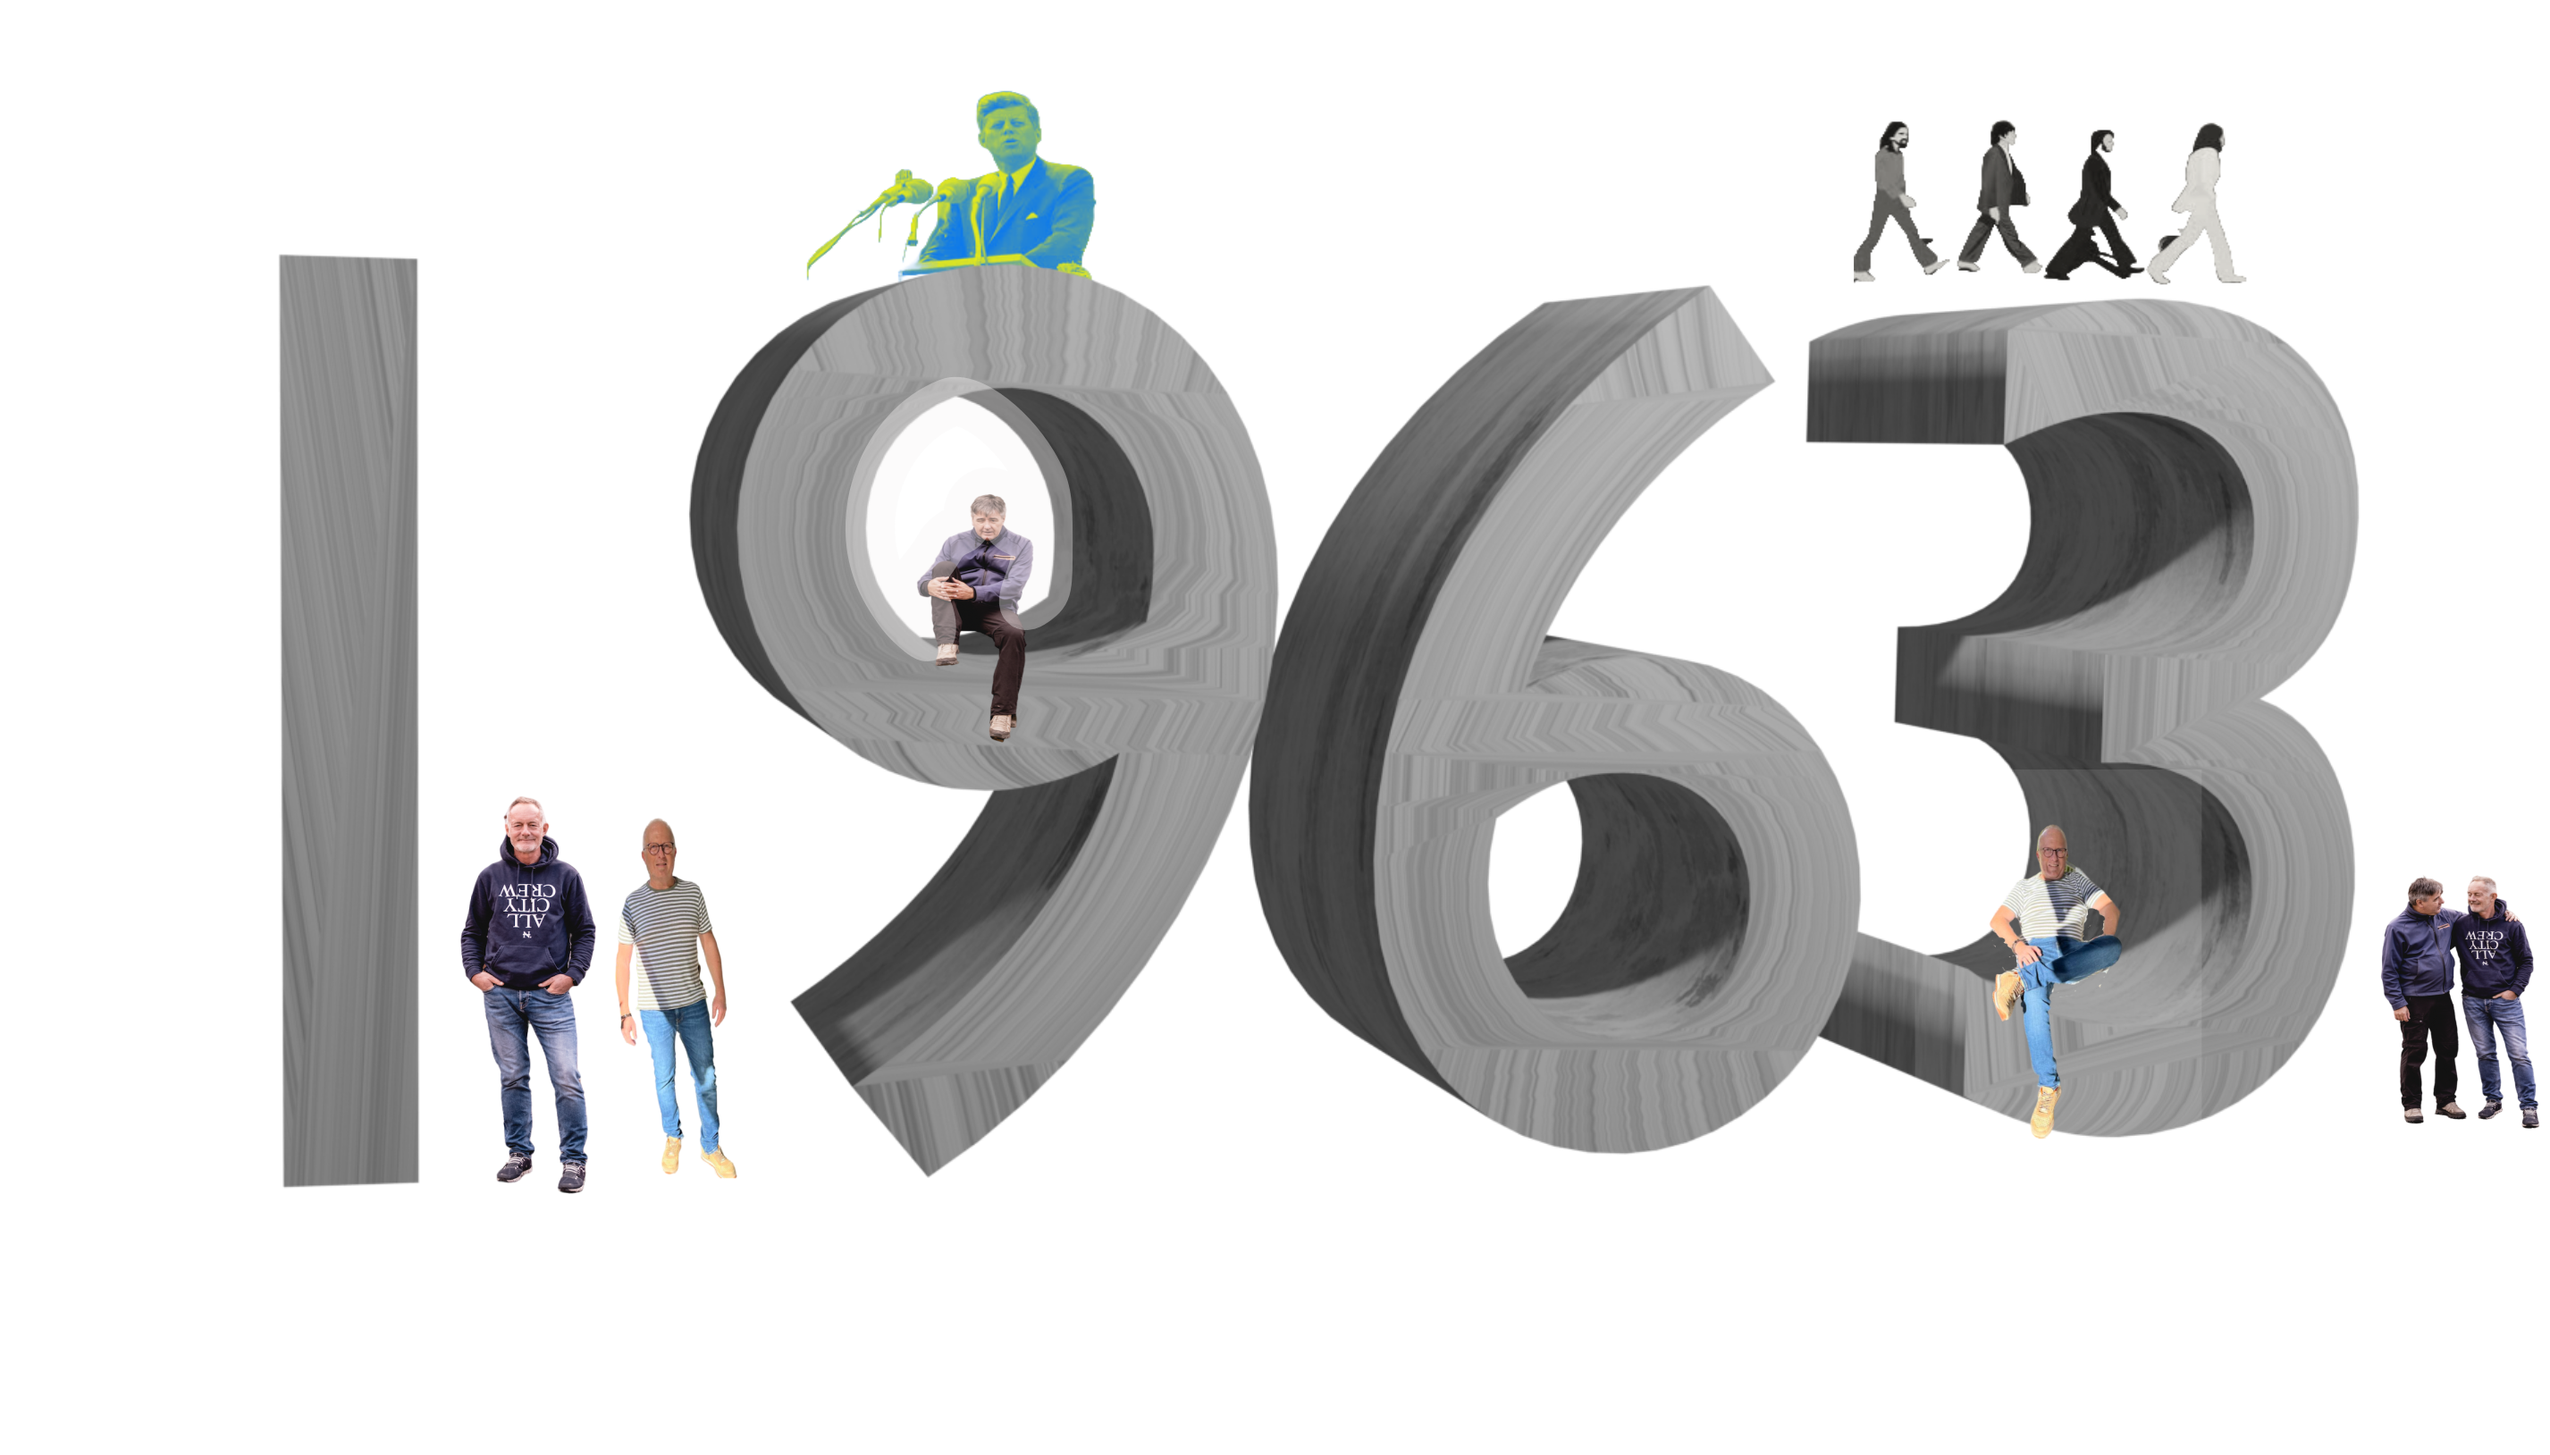
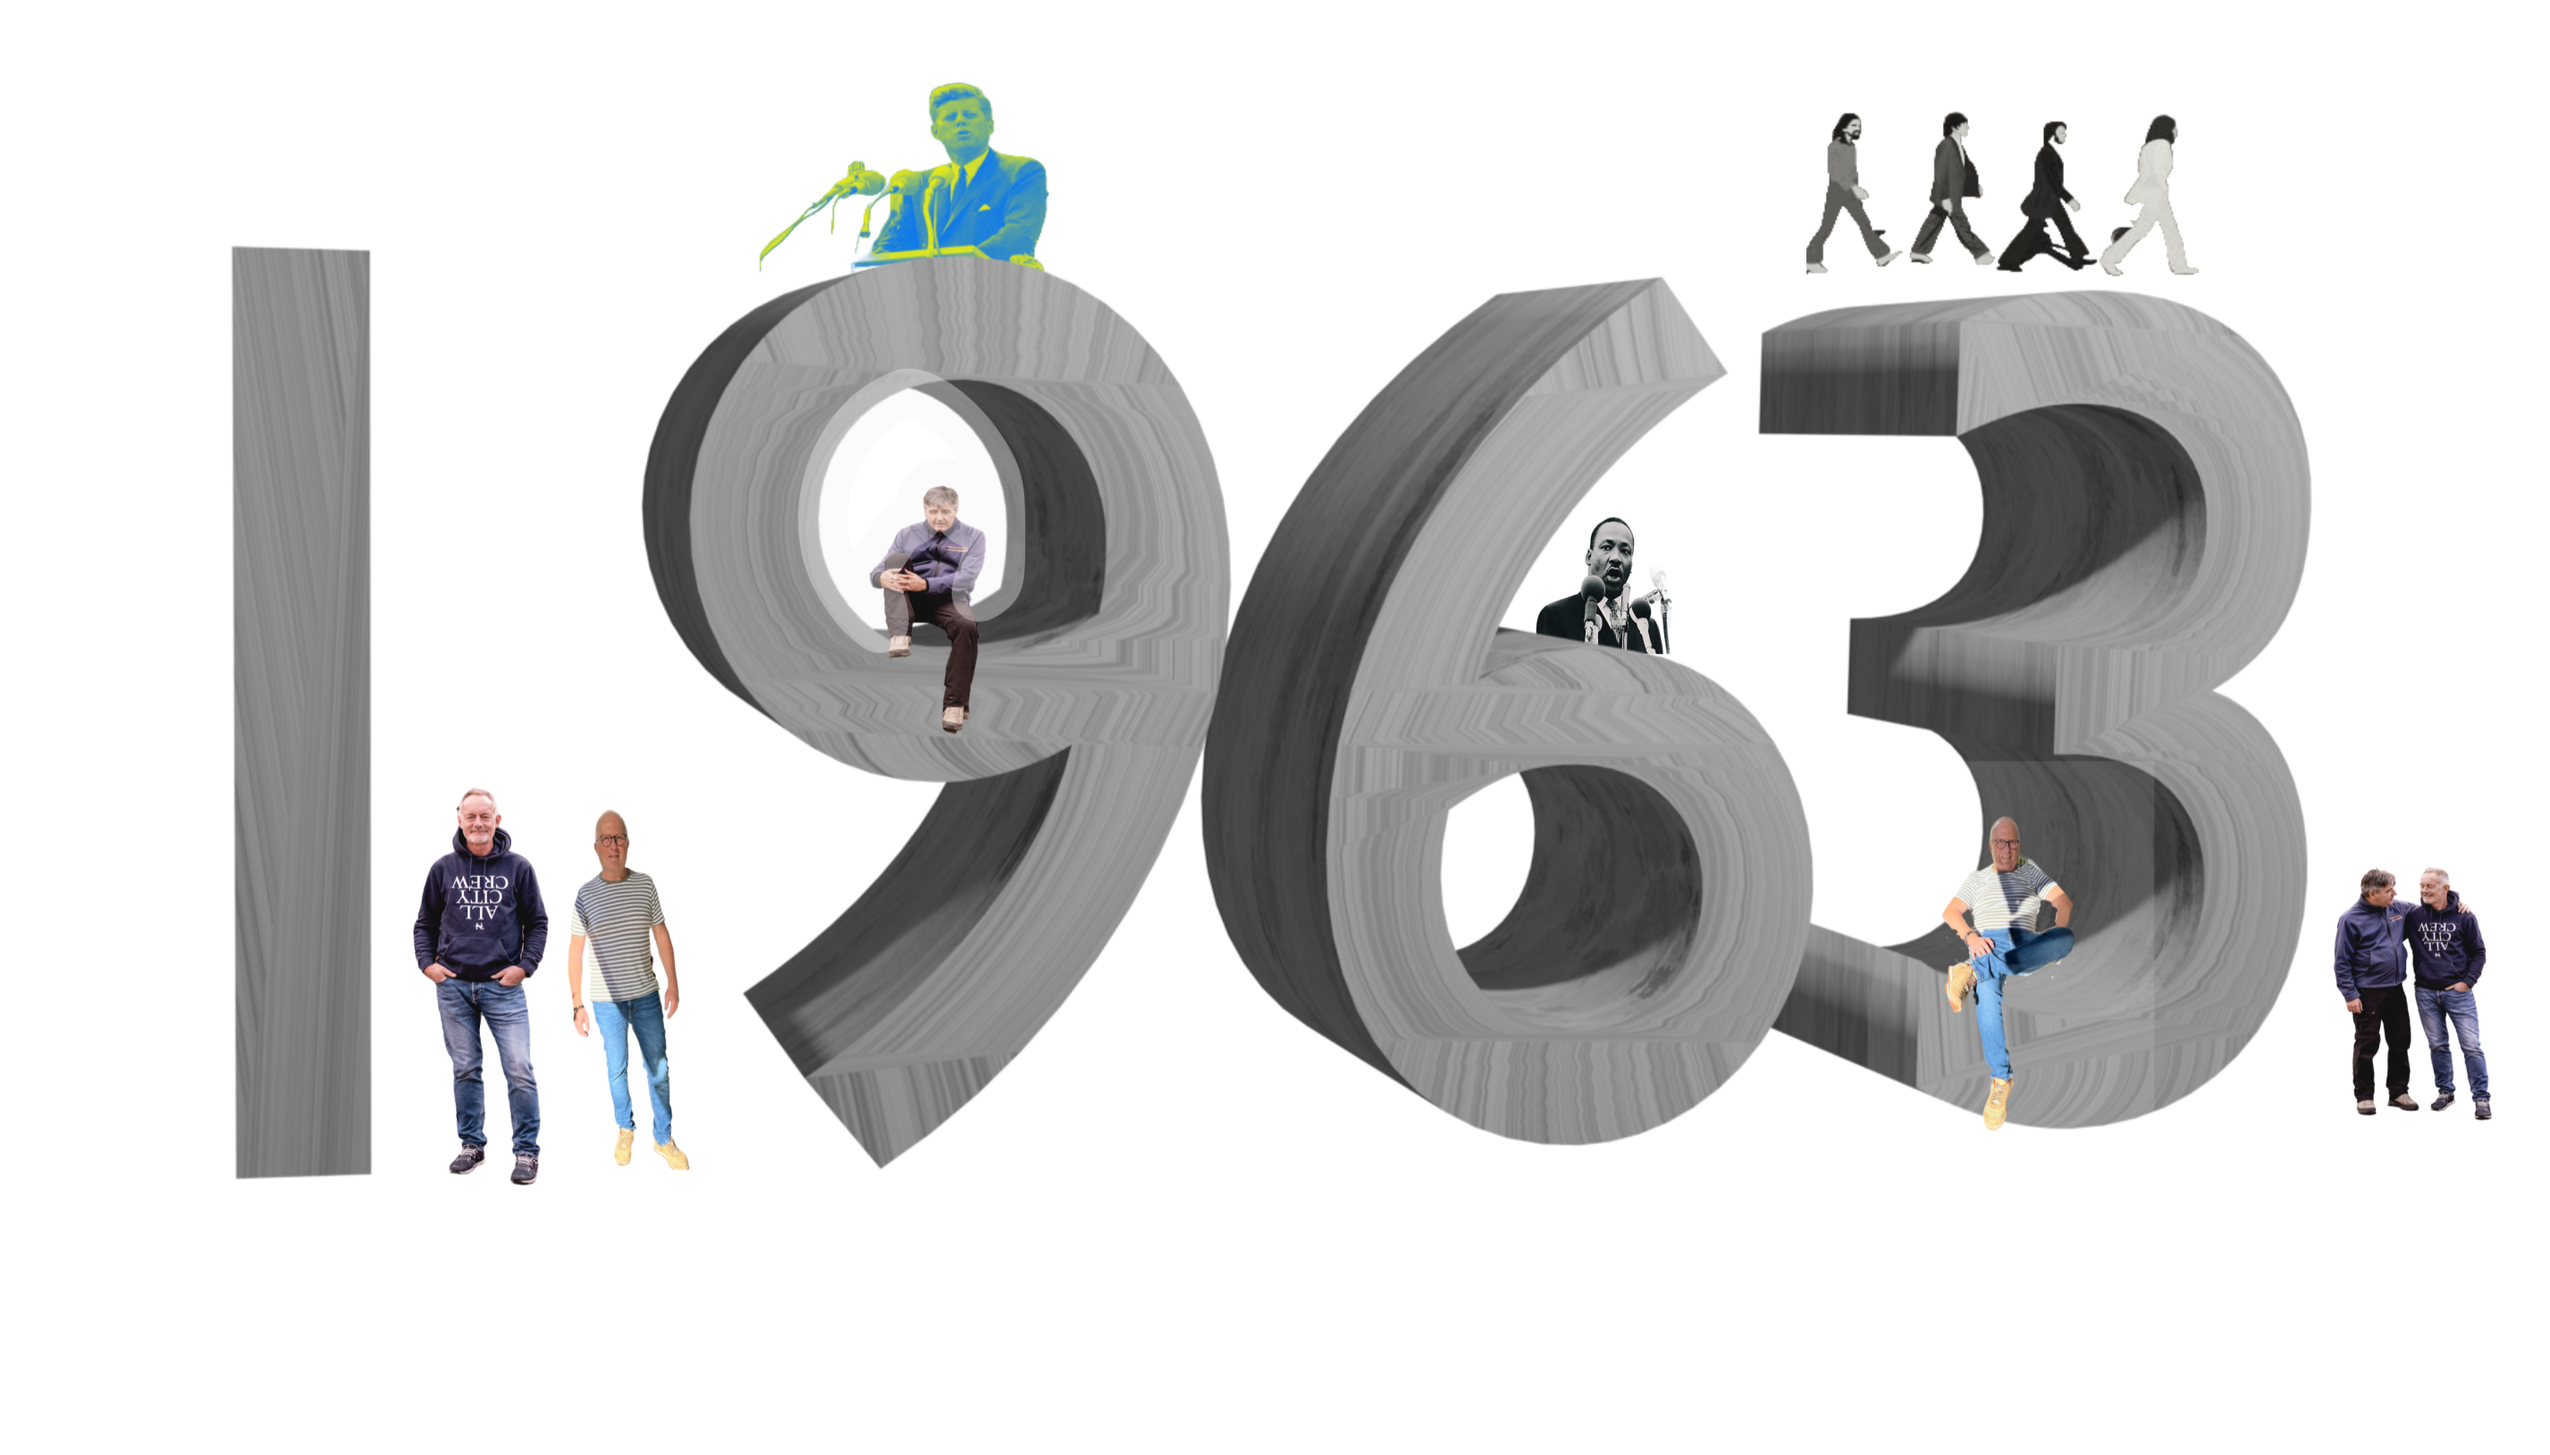
11er commit

Changed region(s): [[0.0936, 0.0614, 0.9982, 0.8292]]

diff --git a/app/page.tsx b/app/page.tsx
@@ -21,7 +21,7 @@ export default function Home() {
       <h1 className='mt-[7vh] leading-4 text-slate-800 text-center text-sm w-10/12 md:mt-[36vh] md:text-2xl lg:w-8/12 lg:px-24 lg:mt-[63vh] ' >&ldquo; es sind die menschlichen Begegnungen die das Leben lebenswert gestalten &ldquo;</h1>
       <h1 className='py-7 headingA text-amber-500 uppercase font-bowlbySC font-black text-6xl md:text-9xl lg:text-[12rem] xl:text-[15rem] text-center'>Einladung</h1>
       <h2 className="mb-5 text-amber-500 leading-6 font-black text-center w-[66vw] text-[1.45rem] md:text-4xl md-w-full font-bowlbySC lg:w-full  lg:text-5xl" >Samstag <br/> 18. November 2023 <br className='text-center' />ab 18 Uhr</h2>
-        <p className='py-4  text-white font-normal w-72 text-sm text-justify md:text-[1.333rem] md:w-full'>Das Jahr 1963 hat Spuren hinterlassen. 10. August Frank, 21. Oktober Mick  Andi 09.November und nicht vergessen am 24 . August Start der Fussball Bindesliga. &ldquo;Ich bin ein Berliner&ldquo; John F. Kennedy in Berlin - Beatle-Mania - Martin Luther King begeistert die Menschenmassen... <br/> < br/> <hr/> < br/>Für uns Drei steht nun also die 6 vor der Null! Mehr als Grund genug mit all denen die uns wichtig sind diesen Zustand gebührend zu feiern.</p>
+        <p className='py-4  text-white font-normal w-72 text-sm text-justify md:text-[1.333rem] md:w-full'>Das Jahr 1963 hat Spuren hinterlassen. 10. August Frank, 21. Oktober Mick  Andi 09.November und nicht vergessen am 24 . August Start der Fussball Bindesliga. &ldquo;Ich bin ein Berliner&ldquo; John F. Kennedy in Berlin - Beatle-Mania - Martin Luther King &ldquo;I have a dream &ldquo;... <br/> < br/> <hr/> < br/>Für uns Drei steht nun also die 6 vor der Null! Mehr als Grund genug mit all denen die uns wichtig sind diesen Zustand gebührend zu feiern.</p>
         <h2 className="text-amber-500 text-3xl font-bold">Wohin?</h2> 
         <p className='py-4  text-white font-normal w-72 text-sm text-justify md:text-[1.333rem] md:w-full'>Veranstaltungsort ist die FLYING-BAR direkt am Flughafen/ Tower Bremgarten Freiburger-Strasse</p>
         <h2 className="text-amber-500 text-3xl font-bold">Unterkunft?</h2> 
